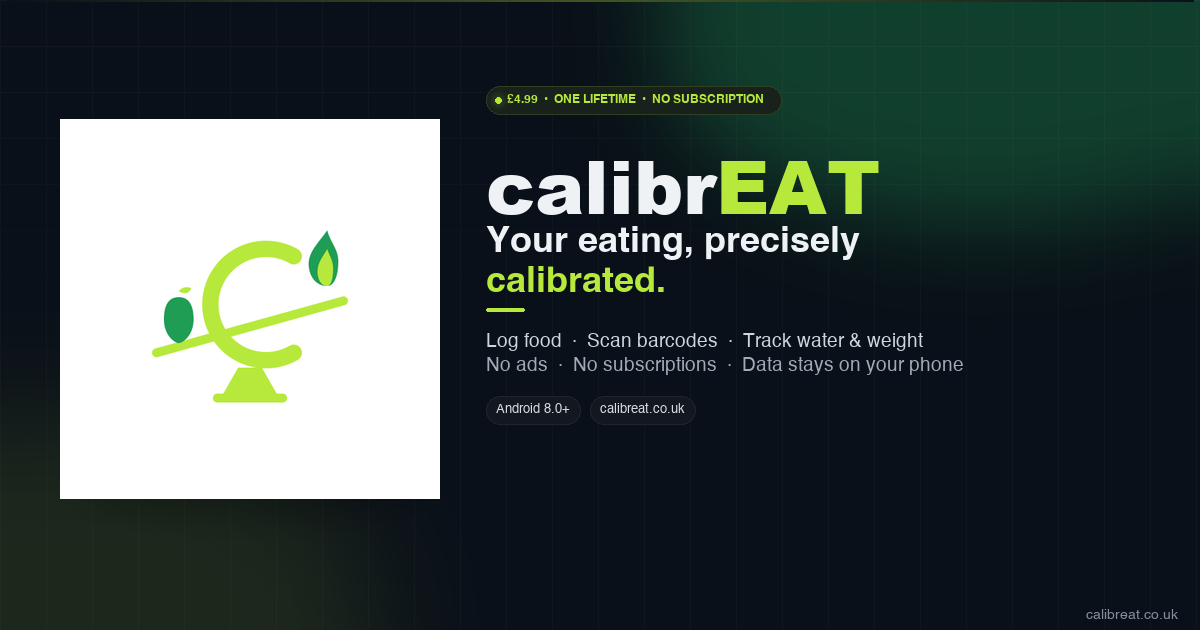
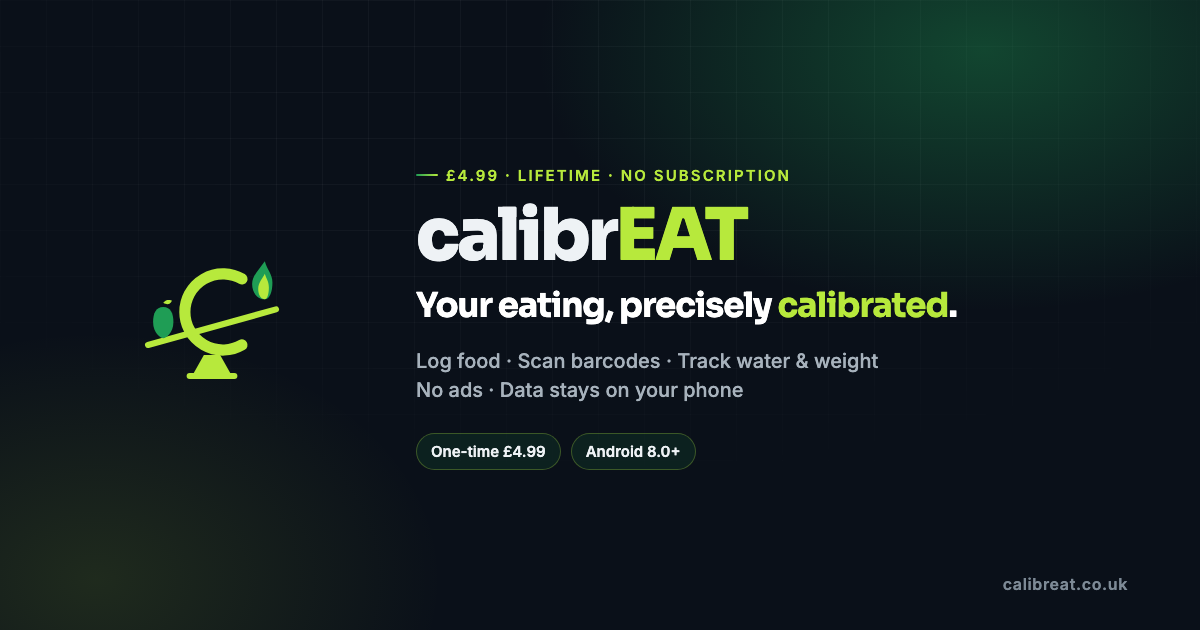
Give shared links a full preview card.
Replace the empty Twitter summary with a 1200×630 brand image and shorter titles so Slack, iMessage, and Twitter show calibrEAT instead of a blank link.

diff --git a/scripts/og-card.html b/scripts/og-card.html
@@ -1,0 +1,127 @@
+<!doctype html>
+<html lang="en">
+<head>
+<meta charset="utf-8" />
+<title>calibrEAT OG card</title>
+<link rel="preconnect" href="https://fonts.googleapis.com" />
+<link rel="preconnect" href="https://fonts.gstatic.com" crossorigin />
+<link href="https://fonts.googleapis.com/css2?family=Inter:wght@500;600&family=Sora:wght@700;800&display=swap" rel="stylesheet" />
+<style>
+  * { box-sizing: border-box; margin: 0; padding: 0; }
+  html, body { width: 1200px; height: 630px; overflow: hidden; background: #0a1019; }
+  body {
+    font-family: Inter, system-ui, sans-serif;
+    color: #eef2f5;
+    position: relative;
+  }
+  .grid {
+    position: absolute; inset: 0; pointer-events: none;
+    background-image:
+      linear-gradient(rgba(255,255,255,.035) 1px, transparent 1px),
+      linear-gradient(90deg, rgba(255,255,255,.035) 1px, transparent 1px);
+    background-size: 46px 46px;
+    -webkit-mask-image: radial-gradient(ellipse 90% 80% at 50% 20%, #000 30%, transparent 75%);
+    mask-image: radial-gradient(ellipse 90% 80% at 50% 20%, #000 30%, transparent 75%);
+  }
+  .glow {
+    position: absolute; inset: 0; pointer-events: none;
+    background:
+      radial-gradient(720px 420px at 82% 8%, rgba(31,157,85,.38), transparent 62%),
+      radial-gradient(560px 400px at 8% 92%, rgba(183,233,60,.12), transparent 62%);
+  }
+  .frame {
+    position: relative;
+    height: 630px;
+    padding: 64px 72px;
+    display: grid;
+    grid-template-columns: 280px 1fr;
+    gap: 64px;
+    align-items: center;
+  }
+  .mark {
+    width: 280px; height: 280px;
+    display: grid; place-items: center;
+  }
+  .mark svg { width: 260px; height: 260px; }
+  .copy { min-width: 0; }
+  .kicker {
+    display: inline-flex; align-items: center; gap: 8px;
+    font-size: 15px; font-weight: 600; letter-spacing: .14em; text-transform: uppercase;
+    color: #b7e93c;
+    margin-bottom: 18px;
+  }
+  .kicker::before {
+    content: ""; width: 22px; height: 2px; border-radius: 2px;
+    background: linear-gradient(90deg, #1f9d55, #b7e93c);
+  }
+  h1 {
+    font-family: Sora, Inter, sans-serif;
+    font-weight: 800;
+    font-size: 72px;
+    letter-spacing: -.04em;
+    line-height: .92;
+    margin: 0 0 18px;
+  }
+  h1 .e { color: #b7e93c; }
+  .lede {
+    font-family: Sora, Inter, sans-serif;
+    font-weight: 700;
+    font-size: 34px;
+    letter-spacing: -.03em;
+    line-height: 1.12;
+    color: #fff;
+    margin: 0 0 22px;
+    max-width: 640px;
+  }
+  .lede em { color: #b7e93c; font-style: normal; }
+  .sub {
+    font-size: 20px; line-height: 1.45; color: #a7b2bc; font-weight: 500;
+    margin: 0 0 28px;
+  }
+  .pills { display: flex; gap: 10px; flex-wrap: wrap; }
+  .pill {
+    font-size: 15px; font-weight: 600; color: #eef2f5;
+    border: 1px solid rgba(183,233,60,.28);
+    background: rgba(31,157,85,.12);
+    border-radius: 999px; padding: 8px 14px;
+  }
+  .domain {
+    position: absolute; right: 72px; bottom: 36px;
+    font-size: 16px; font-weight: 600; letter-spacing: .04em; color: #7d8a96;
+  }
+</style>
+</head>
+<body>
+  <div class="grid"></div>
+  <div class="glow"></div>
+  <div class="frame">
+    <div class="mark" aria-hidden="true">
+      <svg xmlns="http://www.w3.org/2000/svg" viewBox="0 0 512 512">
+        <path d="M 220 370 L 292 370 L 272 335 L 240 335 Z" fill="#B7E93C"/>
+        <rect x="206" y="370" width="100" height="12" rx="6" fill="#B7E93C"/>
+        <path d="M 315 185 A 75 75 0 1 0 315 315" fill="none" stroke="#B7E93C" stroke-width="22" stroke-linecap="round"/>
+        <line x1="130" y1="315" x2="382" y2="245" stroke="#B7E93C" stroke-width="12" stroke-linecap="round"/>
+        <g transform="translate(135, 220)">
+          <path d="M 25 12 C 32 3, 42 8, 42 8 C 42 8, 38 20, 25 12 Z" fill="#B7E93C"/>
+          <path d="M 25 20 C 10 20, 5 33, 5 50 C 5 72, 20 82, 25 82 C 30 82, 45 72, 45 50 C 45 33, 40 20, 25 20 Z" fill="#1F9D55"/>
+        </g>
+        <g transform="translate(335, 150)">
+          <path d="M 25 75 C 10 75, 0 62, 0 45 C 0 28, 15 15, 25 0 C 30 18, 40 25, 40 42 C 40 60, 35 75, 25 75 Z" fill="#1F9D55"/>
+          <path d="M 25 75 C 18 75, 12 68, 12 55 C 12 42, 22 32, 25 25 C 28 35, 33 40, 33 52 C 33 65, 30 75, 25 75 Z" fill="#B7E93C"/>
+        </g>
+      </svg>
+    </div>
+    <div class="copy">
+      <div class="kicker">£4.99 · lifetime · no subscription</div>
+      <h1>calibr<span class="e">EAT</span></h1>
+      <p class="lede">Your eating, precisely <em>calibrated</em>.</p>
+      <p class="sub">Log food · Scan barcodes · Track water &amp; weight<br />No ads · Data stays on your phone</p>
+      <div class="pills">
+        <span class="pill">One-time £4.99</span>
+        <span class="pill">Android 8.0+</span>
+      </div>
+    </div>
+  </div>
+  <div class="domain">calibreat.co.uk</div>
+</body>
+</html>

diff --git a/apps/web/index.html b/apps/web/index.html
@@ -3,25 +3,25 @@
 <head>
 <meta charset="utf-8" />
 <meta name="viewport" content="width=device-width, initial-scale=1" />
-<title>calibrEAT — Calibrate your eating lifestyle</title>
-<meta name="description" content="Calorie tracker for Android. Log food, scan barcodes, track water &amp; weight — no ads, no subscriptions. One lifetime activation code for £4.99 inc VAT, delivered by email." />
+<title>calibrEAT — Your eating, precisely calibrated</title>
+<meta name="description" content="£4.99 lifetime calorie tracker. Log food, scan barcodes, track water and weight. No ads, no subscription. Your data stays on your phone." />
 <meta property="og:site_name" content="calibrEAT" />
 <meta property="og:type" content="website" />
 <meta property="og:locale" content="en_GB" />
-<meta property="og:title" content="calibrEAT — Calibrate your eating lifestyle" />
-<meta property="og:description" content="Calorie tracker for Android. Log food, scan barcodes, track water &amp; weight — no ads, no subscriptions. One lifetime activation code for £4.99 inc VAT, delivered by email." />
+<meta property="og:title" content="calibrEAT — Your eating, precisely calibrated" />
+<meta property="og:description" content="£4.99 lifetime. Log food, scan barcodes, track water and weight. No ads, no subscription. Your data stays on your phone." />
 <meta property="og:url" content="https://calibreat.co.uk/" />
 <meta property="og:image" content="https://calibreat.co.uk/assets/og-image.png" />
 <meta property="og:image:secure_url" content="https://calibreat.co.uk/assets/og-image.png" />
 <meta property="og:image:type" content="image/png" />
 <meta property="og:image:width" content="1200" />
 <meta property="og:image:height" content="630" />
-<meta property="og:image:alt" content="calibrEAT — Your eating, precisely calibrated. Log food, scan barcodes, track water &amp; weight. No ads, no subscriptions." />
+<meta property="og:image:alt" content="calibrEAT — £4.99 lifetime. Log food, scan barcodes, track water and weight. No ads, no subscription." />
 <meta name="twitter:card" content="summary_large_image" />
-<meta name="twitter:title" content="calibrEAT — Calibrate your eating lifestyle" />
-<meta name="twitter:description" content="Calorie tracker for Android. Log food, scan barcodes, track water &amp; weight — no ads, no subscriptions. One lifetime activation code for £4.99 inc VAT, delivered by email." />
+<meta name="twitter:title" content="calibrEAT — Your eating, precisely calibrated" />
+<meta name="twitter:description" content="£4.99 lifetime. Log food, scan barcodes, track water and weight. No ads, no subscription. Your data stays on your phone." />
 <meta name="twitter:image" content="https://calibreat.co.uk/assets/og-image.png" />
-<meta name="twitter:image:alt" content="calibrEAT — Your eating, precisely calibrated. Log food, scan barcodes, track water &amp; weight. No ads, no subscriptions." />
+<meta name="twitter:image:alt" content="calibrEAT — £4.99 lifetime. Log food, scan barcodes, track water and weight. No ads, no subscription." />
 <meta name="theme-color" content="#0a1019" />
 <meta name="referrer" content="strict-origin-when-cross-origin" />
 <meta http-equiv="X-Content-Type-Options" content="nosniff" />

diff --git a/apps/web/license.html b/apps/web/license.html
@@ -4,12 +4,12 @@
 <meta charset="utf-8" />
 <meta name="viewport" content="width=device-width, initial-scale=1" />
 <title>Lifetime license — calibrEAT</title>
-<meta name="description" content="calibrEAT lifetime license: £4.99 inc VAT, one-time payment, a permanent activation code delivered instantly by email. No subscriptions." />
+<meta name="description" content="£4.99 inc VAT, one payment. Permanent activation code by email. No subscription, no ads." />
 <meta property="og:site_name" content="calibrEAT" />
 <meta property="og:type" content="website" />
 <meta property="og:locale" content="en_GB" />
-<meta property="og:title" content="Lifetime license — calibrEAT" />
-<meta property="og:description" content="calibrEAT lifetime license: £4.99 inc VAT, one-time payment, a permanent activation code delivered instantly by email. No subscriptions." />
+<meta property="og:title" content="Lifetime license · £4.99 — calibrEAT" />
+<meta property="og:description" content="One payment. Permanent activation code by email. No subscription, no ads." />
 <meta property="og:url" content="https://calibreat.co.uk/license.html" />
 <meta property="og:image" content="https://calibreat.co.uk/assets/og-image.png" />
 <meta property="og:image:secure_url" content="https://calibreat.co.uk/assets/og-image.png" />
@@ -18,8 +18,8 @@
 <meta property="og:image:height" content="630" />
 <meta property="og:image:alt" content="calibrEAT lifetime license — £4.99 one-time. Permanent code by email." />
 <meta name="twitter:card" content="summary_large_image" />
-<meta name="twitter:title" content="Lifetime license — calibrEAT" />
-<meta name="twitter:description" content="calibrEAT lifetime license: £4.99 inc VAT, one-time payment, a permanent activation code delivered instantly by email. No subscriptions." />
+<meta name="twitter:title" content="Lifetime license · £4.99 — calibrEAT" />
+<meta name="twitter:description" content="One payment. Permanent activation code by email. No subscription, no ads." />
 <meta name="twitter:image" content="https://calibreat.co.uk/assets/og-image.png" />
 <meta name="twitter:image:alt" content="calibrEAT lifetime license — £4.99 one-time. Permanent code by email." />
 <meta name="theme-color" content="#0a1019" />
